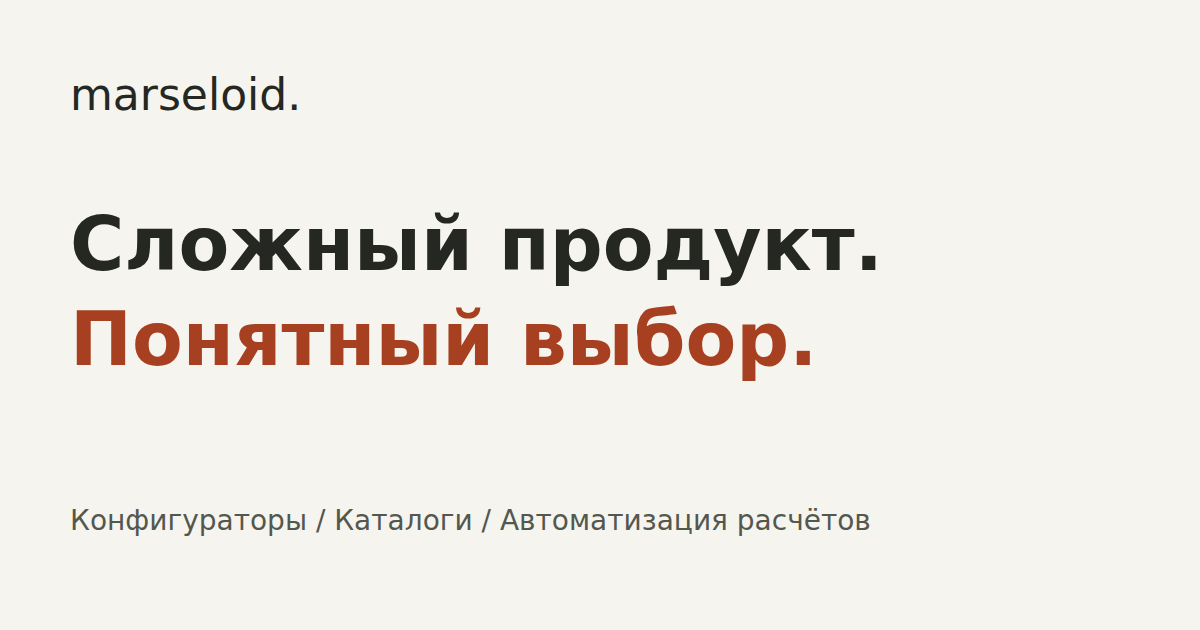
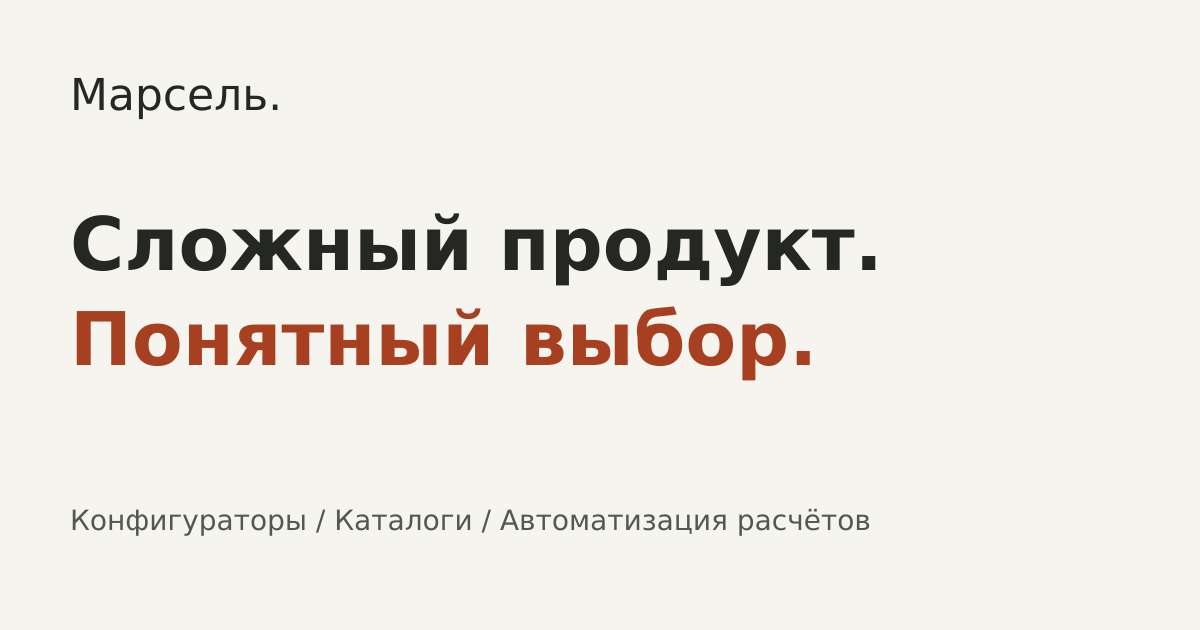
Пользователь отправил в Telegram изображений: 1

diff --git a/app/layout.tsx b/app/layout.tsx
@@ -6,21 +6,21 @@ import "./globals.css";
 export const metadata: Metadata = {
   metadataBase: new URL("https://marseloid.online"),
   title: {
-    default: "Marseloid — конфигураторы, каталоги и автоматизация расчётов",
-    template: "%s · Marseloid",
+    default: "Марсель — конфигураторы, каталоги и автоматизация расчётов",
+    template: "%s · Марсель",
   },
   description:
     "Разрабатываю конфигураторы продукции, каталоги и системы расчёта стоимости для бизнеса. Работаю лично — от разбора задачи до запуска.",
   openGraph: {
     type: "website",
     locale: "ru_RU",
-    siteName: "Marseloid",
+    siteName: "Марсель",
     images: [
       {
         url: "/og.png",
         width: 1200,
         height: 630,
-        alt: "Marseloid — сложный продукт, понятный выбор",
+        alt: "Марсель — сложный продукт, понятный выбор",
       },
     ],
   },
@@ -44,13 +44,13 @@ export default function RootLayout({
                 {
                   "@type": "WebSite",
                   "@id": "https://marseloid.online/#website",
-                  name: "Marseloid",
+                  name: "Марсель",
                   url: "https://marseloid.online/",
                   inLanguage: "ru",
                 },
                 {
                   "@type": "Person",
-                  name: "Marseloid",
+                  name: "Марсель",
                   url: "https://marseloid.online/about",
                   sameAs: ["https://t.me/marseloid"],
                   jobTitle: "Независимый веб-разработчик",
@@ -67,13 +67,13 @@ export default function RootLayout({
           <main id="main">{children}</main>
           <footer className="footer wrap">
             <Link className="logo" href="/">
-              marseloid<span className="brand-dot">.</span>
+              Марсель<span className="brand-dot">.</span>
             </Link>
             <p>Работаю лично. Создаю под задачу.</p>
             <div>
               <a href="https://t.me/marseloid">Telegram ↗</a>
               <Link href="/privacy/">Конфиденциальность</Link>
-              <span>© {new Date().getFullYear()} Marseloid</span>
+              <span>© {new Date().getFullYear()} Марсель</span>
             </div>
           </footer>
         </MotionProvider>

diff --git a/app/privacy/page.tsx b/app/privacy/page.tsx
@@ -2,7 +2,7 @@ import { PageIntro } from "@/components/shared";
 export const metadata = {
   title: "Конфиденциальность",
   description:
-    "Какие данные использует сайт Marseloid и как работает подготовка сообщения для Telegram.",
+    "Какие данные использует сайт Марселя и как работает подготовка сообщения для Telegram.",
   alternates: { canonical: "/privacy" },
 };
 export default function Page() {
@@ -19,8 +19,8 @@ export default function Page() {
           <p>
             Текст в форме на странице контакта обрабатывается в браузере. Кнопка
             подготавливает сообщение и пытается скопировать его в буфер обмена.
-            Текст не отправляется серверу Marseloid и не сохраняется сайтом
-            после перезагрузки страницы.
+            Текст не отправляется серверу сайта и не сохраняется сайтом после
+            перезагрузки страницы.
           </p>
         </section>
         <section>

diff --git a/app/page.tsx b/app/page.tsx
@@ -27,13 +27,13 @@ export const metadata: Metadata = {
     url: "/",
     type: "website",
     locale: "ru_RU",
-    siteName: "Marseloid",
+    siteName: "Марсель",
     images: [
       {
         url: "/og.png",
         width: 1200,
         height: 630,
-        alt: "Marseloid — сайты и веб-системы для бизнеса",
+        alt: "Марсель — сайты и веб-системы для бизнеса",
       },
     ],
   },
@@ -73,9 +73,7 @@ export default function Home() {
         aria-label="Знакомство с разработчиком"
       >
         <div className="hero-content">
-          <p className="eyebrow">
-            Marseloid / цифровые инструменты для бизнеса
-          </p>
+          <p className="eyebrow">Марсель / цифровые инструменты для бизнеса</p>
           <Reveal as="h1" className={styles.title}>
             {home.hero.before} <span>{home.hero.accent}</span> {home.hero.after}
             <span className="brand-dot">.</span>

diff --git a/components/header.tsx b/components/header.tsx
@@ -16,10 +16,10 @@ export function Header() {
       <Link
         className="logo"
         href="/"
-        aria-label="Marseloid — на главную"
+        aria-label="Марсель — на главную"
         onClick={() => setOpen(false)}
       >
-        marseloid<span className="brand-dot">.</span>
+        Марсель<span className="brand-dot">.</span>
         <span className="logo-caption">независимый разработчик</span>
       </Link>
       <button
@@ -55,7 +55,7 @@ export function Header() {
         ))}
         <Link
           className="nav-cta"
-          href="/contact/"
+          href={path === "/" ? "#contact" : "/contact/"}
           onClick={() => setOpen(false)}
         >
           Обсудить задачу <span aria-hidden="true">↗</span>

diff --git a/app/about/page.tsx b/app/about/page.tsx
@@ -12,7 +12,7 @@ export default function Page() {
         <PageIntro
           label="О подходе"
           title="Один разработчик. Прямая связь."
-          description="Я — Marseloid. Делаю веб-системы для бизнеса, где за простым выбором стоит сложная логика. Общаетесь со мной — от первого сообщения до запуска."
+          description="Я — Марсель. Делаю веб-системы для бизнеса, где за простым выбором стоит сложная логика. Общаетесь со мной — от первого сообщения до запуска."
         />
         <ArticleSections
           sections={[

diff --git a/app/contact/page.tsx b/app/contact/page.tsx
@@ -3,7 +3,7 @@ import { Brief } from "@/components/brief";
 export const metadata = {
   title: "Обсудить задачу",
   description:
-    "Напишите Marseloid в Telegram: покажите текущий расчёт или опишите задачу, чтобы обсудить первую версию системы.",
+    "Напишите Марселю в Telegram: покажите текущий расчёт или опишите задачу, чтобы обсудить первую версию системы.",
   alternates: { canonical: "/contact" },
 };
 export default function Page() {

diff --git a/lib/home-content.ts b/lib/home-content.ts
@@ -1,6 +1,6 @@
 export const home = {
   metadata: {
-    title: "Marseloid — разработка сайтов, доработки и веб-системы",
+    title: "Марсель — разработка сайтов, доработки и веб-системы",
     description:
       "Марсель — независимый веб-разработчик. Лендинги, доработки, каталоги, конфигураторы, CRM и автоматизация для бизнеса и веб-студий. Обсудите задачу и получите оценку.",
   },

diff --git a/app/services/[slug]/page.tsx b/app/services/[slug]/page.tsx
@@ -34,13 +34,13 @@ export async function generateMetadata({
             url: canonical,
             type: "website",
             locale: "ru_RU",
-            siteName: "Marseloid",
+            siteName: "Марсель",
             images: [
               {
                 url: "/og.png",
                 width: 1200,
                 height: 630,
-                alt: "Marseloid — сайты и веб-системы для бизнеса",
+                alt: "Марсель — сайты и веб-системы для бизнеса",
               },
             ],
           },

diff --git a/app/blog/[slug]/page.tsx b/app/blog/[slug]/page.tsx
@@ -35,7 +35,7 @@ export default async function Page({
           description={p.description}
         />
         <ArticleSections sections={p.sections} />
-        <p className="caption">Автор: Marseloid · Независимый разработчик</p>
+        <p className="caption">Автор: Марсель · Независимый разработчик</p>
       </article>
       <CTA />
     </>

diff --git a/docs/DESIGN.md b/docs/DESIGN.md
@@ -46,3 +46,9 @@ The database recommendations mixed dark-only style with a light palette. Resolve
 - Homepage refinement: keep the hero unchanged. Problems use compact outlined icon cards; services use open two-column editorial blocks; before/after is a pair of connected process paths; price numerals are emphasized; agency cooperation uses the existing dark green surface; work stages use a compact timeline. Shared PricingDetails and WorkProcess also serve the websites-and-improvements service. Other cases retain their content and behavior. The canopy demo lives only on the configurator service, with illustrative prices and existing formulas.
 
 - Owner-approved hero messenger wave: 14 px dark-green marks without circular backgrounds, aligned right 24 px below the CTA, inside transparent 44 px touch targets. A shared Framer Motion clock scales WhatsApp, Telegram and MAX sequentially to 1.28 over three seconds. Continuous motion is explicitly requested for these icons; pause on hover, keyboard focus, touch interaction, offscreen and hidden tabs, and disable for reduced motion. Keep the supplied direct contact links.
+
+- Public name: «Марсель» in header/footer wordmarks, personal copy, page titles,
+  social metadata and existing WebSite/Person names. Preserve the terracotta dot
+  and existing typography. The repository name, domain marseloid.online, canonical
+  URLs and Telegram @marseloid stay unchanged. public/og.svg is the source of the
+  matching public/og.png social image; no new visual identity or layout is added.
